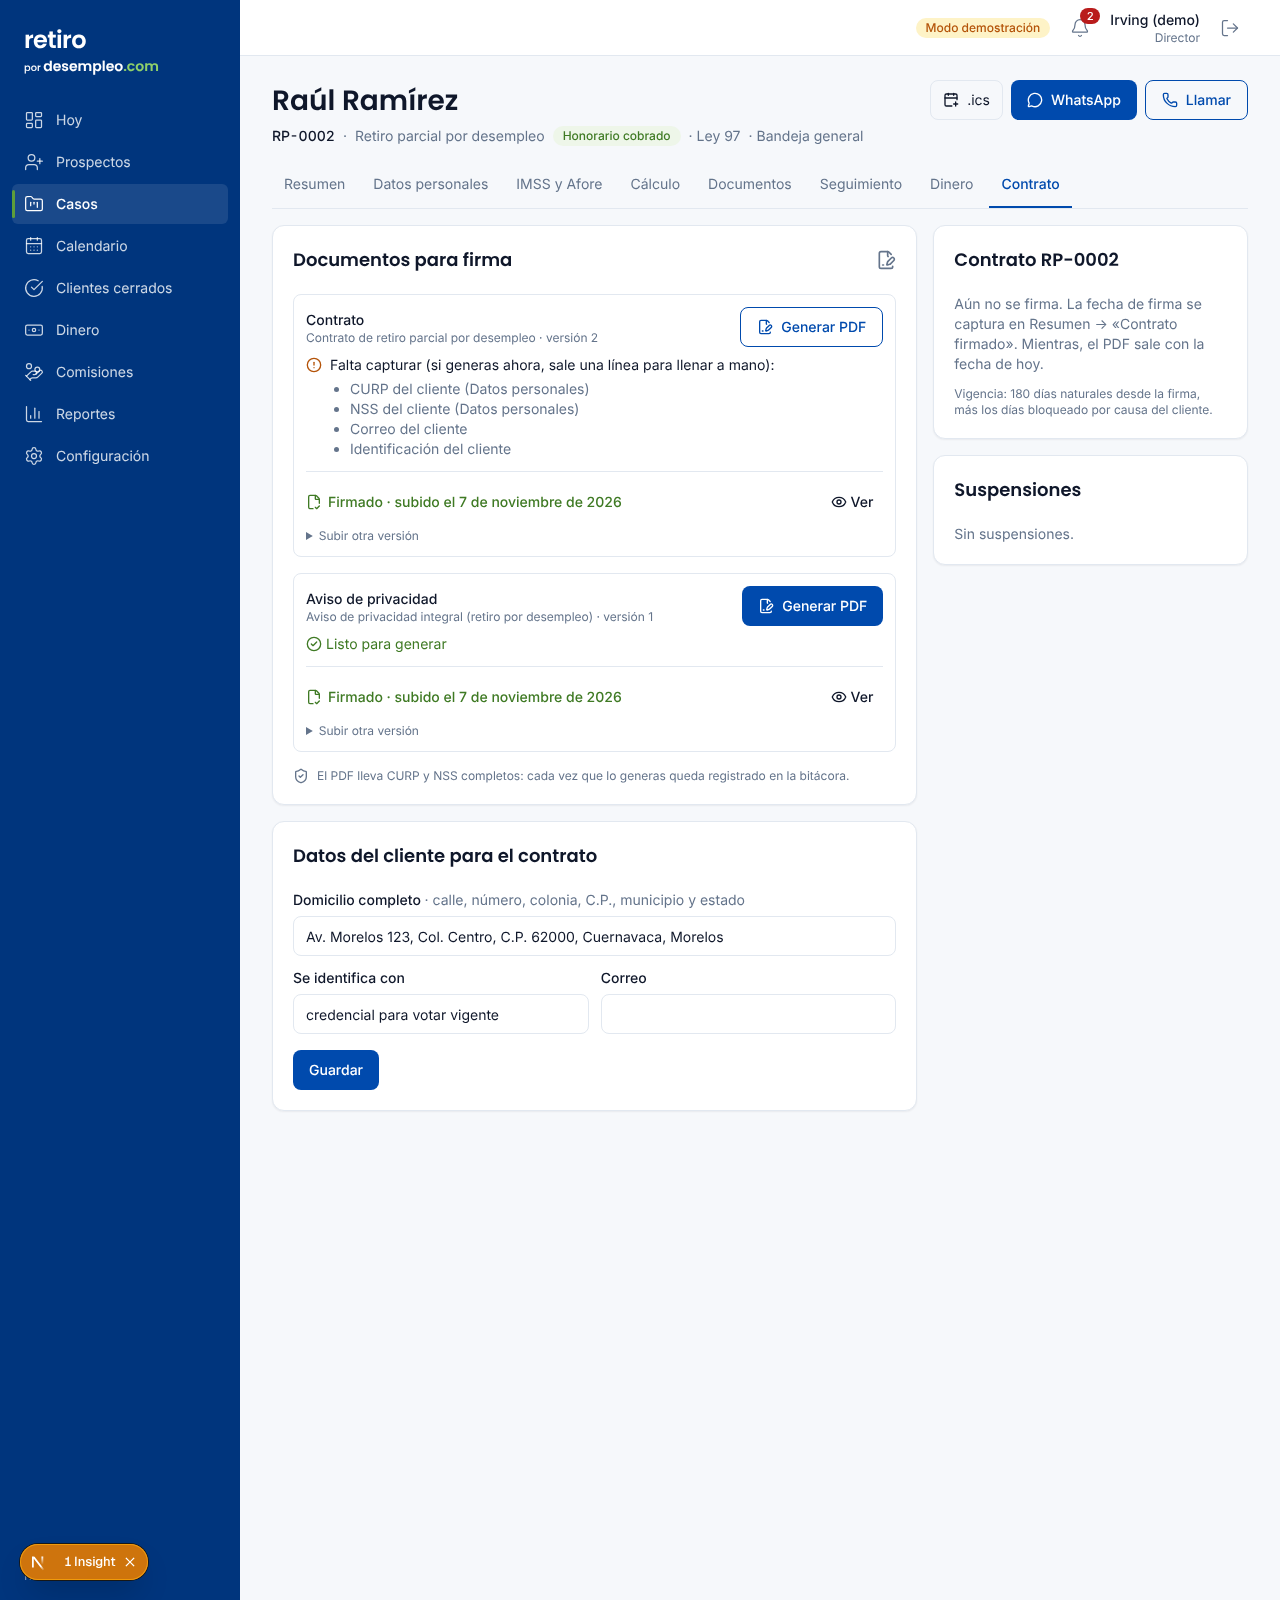
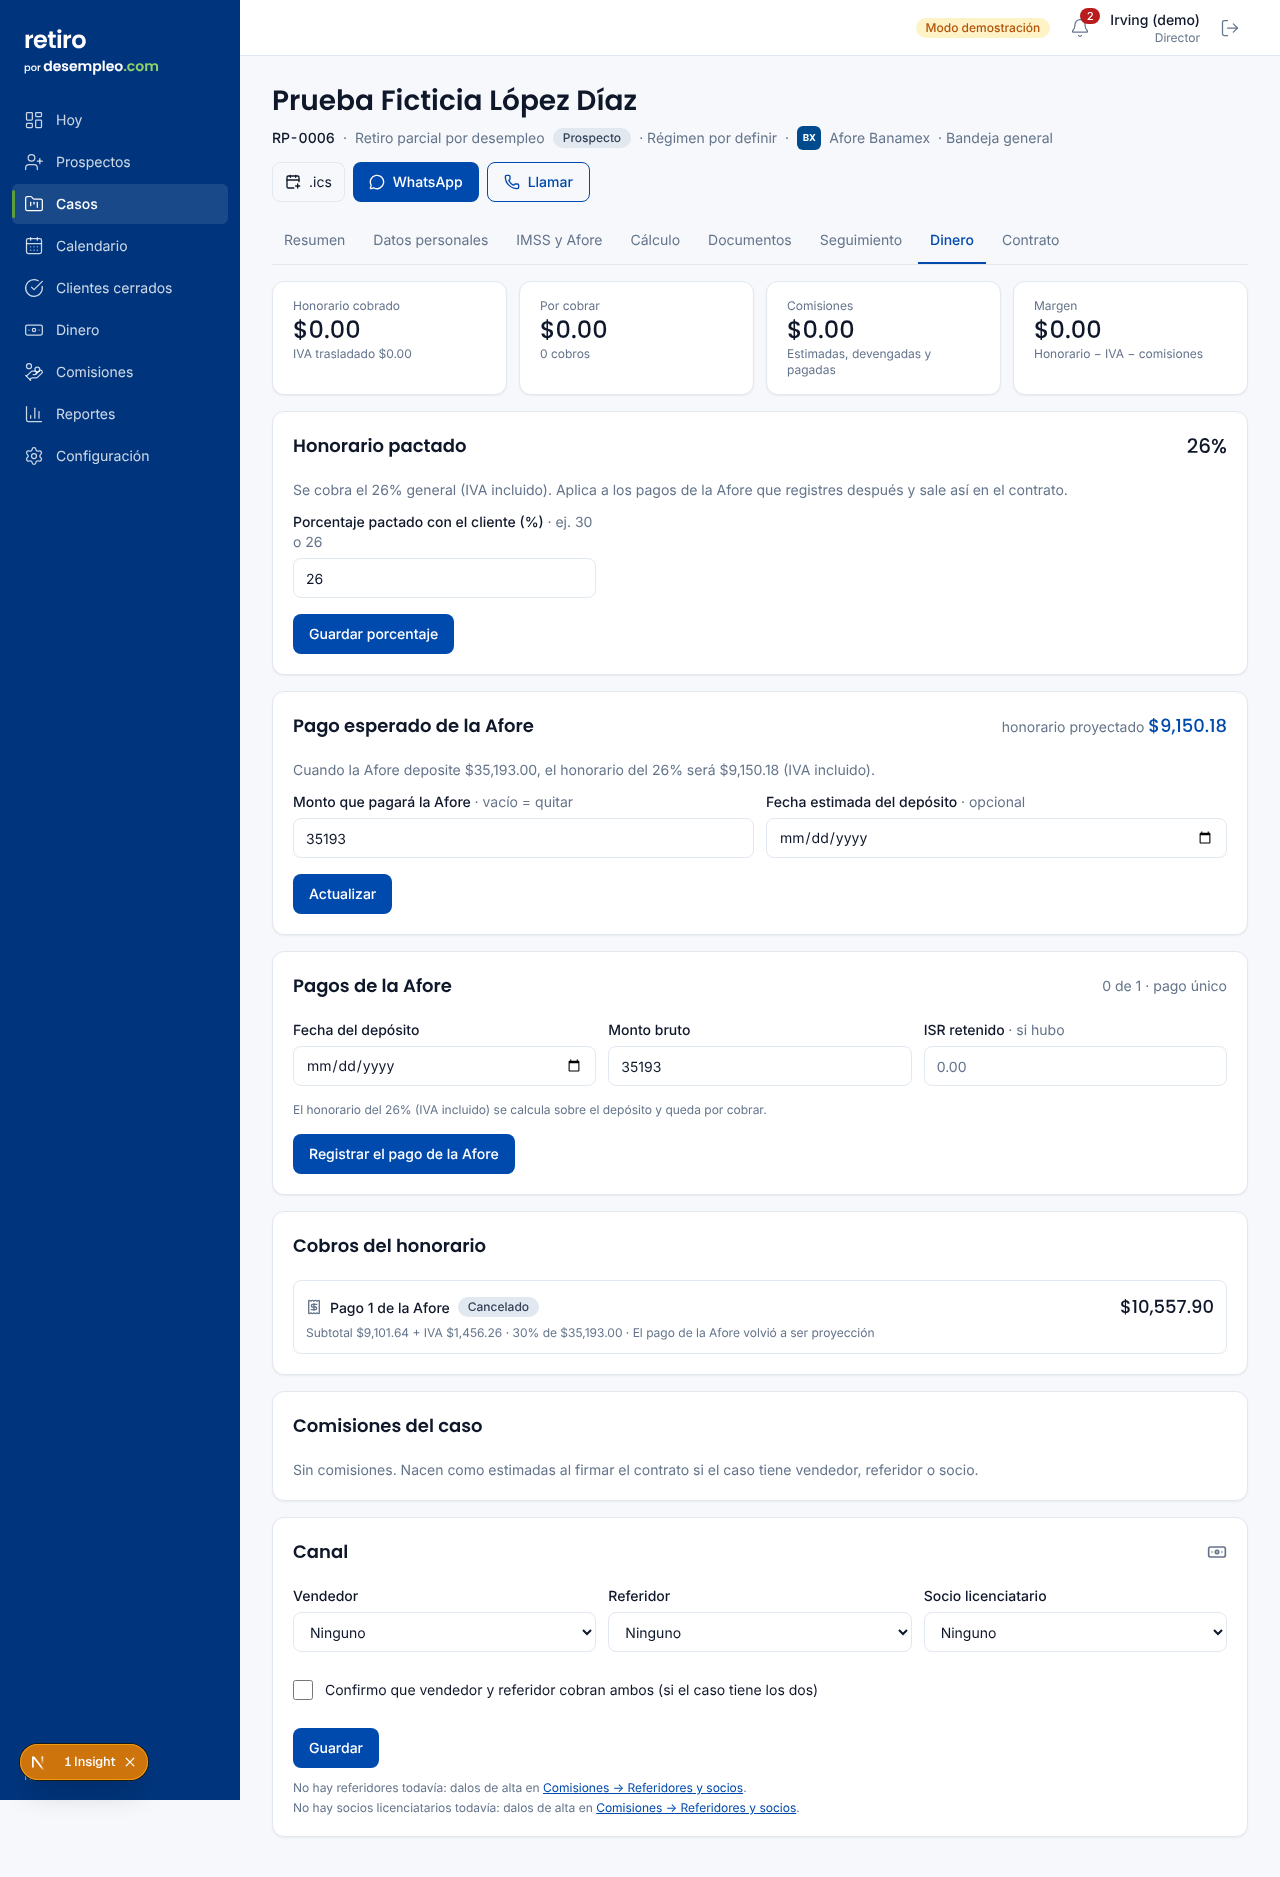
Pagos de la Afore: cambiar fecha, regresar a pago esperado y bloquear fechas absurdas
Claude-Session: https://claude.ai/code/session_013nMRDE2zF3GuiwxZkimYuE

diff --git a/src/app/(app)/casos/[id]/acciones-dinero.ts b/src/app/(app)/casos/[id]/acciones-dinero.ts
@@ -21,7 +21,10 @@ import type { Resultado } from "./acciones";
 const dia = (iso: string) => new Date(`${iso}T00:00:00Z`);
 const fechaLarga = (iso: string) => new Intl.DateTimeFormat("es-MX", { dateStyle: "long", timeZone: "UTC" }).format(dia(iso));
 const monto = z.string().trim().transform((v) => Number(v.replace(/[,$\s]/g, ""))).pipe(z.number({ message: "Escribe un monto" }).finite().min(0, "No puede ser negativo").max(10_000_000));
-const fechaPasada = z.string().min(1, "Escribe la fecha").pipe(z.iso.date({ message: "Fecha no válida" })).refine((v) => v <= hoyCDMX(), "No puede ser futura");
+// Fechas reales de dinero: ni futuras ni absurdas (un «01/01/0001» puesto para salir del paso no pasa).
+const FECHA_MINIMA = "2000-01-01";
+const fechaPasada = z.string().min(1, "Escribe la fecha").pipe(z.iso.date({ message: "Fecha no válida" }))
+  .refine((v) => v <= hoyCDMX(), "No puede ser futura").refine((v) => v >= FECHA_MINIMA, "Revisa el año: la fecha no es válida");
 const METODOS = ["transferencia", "efectivo", "tarjeta"] as const;
 const CONCEPTOS = ["pago_inicial", "recuperado", "primera_mensualidad", "honorario"] as const;
 const datosDe = (form: FormData) => Object.fromEntries([...form.entries()].filter(([, v]) => typeof v === "string")) as Record<string, string>;
@@ -334,4 +337,55 @@ export async function verComprobante(casoId: string, cobroId: string): Promise<{
   } catch {
     return { error: "No se pudo abrir el comprobante." };
   }
+}
+
+// ───────────── Corregir un pago de la Afore ─────────────
+
+/** El Director corrige solo la fecha del depósito (el monto y el honorario no cambian). */
+export async function cambiarFechaPagoAfore(casoId: string, pagoId: string, _p: Resultado, form: FormData): Promise<Resultado> {
+  const { claims, ip, usuario } = await obtenerSesion();
+  if (usuario.rol !== "director") return { error: "Solo el Director corrige pagos registrados." };
+  const r = z.object({ fecha_deposito: fechaPasada }).safeParse(datosDe(form));
+  if (!r.success) return { errores: errores(r.error) };
+  const res = await conUsuario(claims, async (tx): Promise<Resultado> => {
+    const pago = await tx.pagoAfore.findFirst({ where: { id: pagoId, caso_id: casoId, archivado_at: null }, select: { numero: true, fecha_deposito: true } });
+    if (!pago) return { error: "No encontramos el pago." };
+    await tx.pagoAfore.update({ where: { id: pagoId }, data: { fecha_deposito: dia(r.data.fecha_deposito) }, select: { id: true } });
+    await tx.evento.create({ data: { caso_id: casoId, tipo: "pago", usuario_id: usuario.id,
+      texto: `Fecha del depósito de la Afore corregida: ${fechaLarga(r.data.fecha_deposito)} (antes ${pago.fecha_deposito.toISOString().slice(0, 10)}).` } });
+    return { ok: true };
+  }, ip);
+  if (res.ok) await despues(casoId);
+  return res;
+}
+
+/**
+ * La Afore todavía no deposita: el pago vuelve a ser «pago esperado» (proyección), su cobro pendiente se cancela
+ * y el caso regresa a la etapa que tenía antes de que el pago lo moviera. Solo si el honorario no se cobró.
+ */
+export async function regresarAPagoEsperado(casoId: string, pagoId: string): Promise<Resultado> {
+  const { claims, ip, usuario } = await obtenerSesion();
+  if (usuario.rol !== "director") return { error: "Solo el Director corrige pagos registrados." };
+  const res = await conUsuario(claims, async (tx): Promise<Resultado> => {
+    const pago = await tx.pagoAfore.findFirst({ where: { id: pagoId, caso_id: casoId, archivado_at: null }, include: { cobros: { where: { archivado_at: null } } } });
+    if (!pago) return { error: "No encontramos el pago." };
+    if (pago.cobros.some((c) => c.estado === "cobrado")) return { error: "Su honorario ya se cobró: no puede volver a ser proyección." };
+    const otros = await tx.pagoAfore.count({ where: { caso_id: casoId, archivado_at: null, id: { not: pagoId } } });
+    await tx.cobro.updateMany({ where: { pago_afore_id: pagoId, estado: "por_cobrar" }, data: { estado: "cancelado", motivo_cancelacion: "El pago de la Afore volvió a ser proyección" } });
+    await tx.pagoAfore.update({ where: { id: pagoId }, data: { archivado_at: new Date() }, select: { id: true } });
+    const caso = await tx.caso.findUnique({ where: { id: casoId }, select: { etapa: true } });
+    await tx.caso.update({ where: { id: casoId }, select: { id: true }, data: { monto_afore_esperado: pago.monto_bruto, fecha_afore_estimada: null } });
+    // Si ya no queda pago y el caso avanzó solo por este, regresa a la etapa anterior.
+    if (otros === 0 && caso?.etapa === "PAGADO") {
+      const salto = await tx.historialEtapa.findFirst({ where: { caso_id: casoId, etapa_nueva: "PAGADO" }, orderBy: { fecha: "desc" }, select: { etapa_antes: true } });
+      const antes = salto?.etapa_antes ?? "PROSPECTO";
+      await tx.caso.update({ where: { id: casoId }, data: { etapa: antes, etapa_desde: new Date() }, select: { id: true } });
+      await tx.historialEtapa.create({ data: { caso_id: casoId, etapa_antes: "PAGADO", etapa_nueva: antes, motivo: "El pago de la Afore volvió a ser proyección", usuario_id: usuario.id } });
+    }
+    await tx.evento.create({ data: { caso_id: casoId, tipo: "pago", usuario_id: usuario.id,
+      texto: `El pago ${pago.numero} de la Afore volvió a ser pago esperado ($${Number(pago.monto_bruto).toLocaleString("es-MX", { minimumFractionDigits: 2 })}); falta la fecha del depósito.` } });
+    return { ok: true };
+  }, ip);
+  if (res.ok) await despues(casoId);
+  return res;
 }

diff --git a/src/app/(app)/casos/[id]/pestanas/dinero.tsx b/src/app/(app)/casos/[id]/pestanas/dinero.tsx
@@ -11,7 +11,8 @@ import { parametrosDinero, parametrosFechas, parametrosVigentes } from "@/lib/pa
 import { fechaProximoRetiro } from "@/lib/reglas/alertas";
 import { honorariosProyectados, margenCaso, pagosAforePermitidos, pctHonorarioRetiro } from "@/lib/reglas/comisiones";
 import { hoyCDMX } from "@/lib/tiempo";
-import { archivarPagoAfore, cancelarCobro, guardarCanal, guardarHonorarioPactado, guardarPagoEsperado, marcarCobrado, registrarCobro, registrarPagoAfore } from "../acciones-dinero";
+import { BotonAccion } from "../../../configuracion/boton-accion";
+import { archivarPagoAfore, cambiarFechaPagoAfore, regresarAPagoEsperado, cancelarCobro, guardarCanal, guardarHonorarioPactado, guardarPagoEsperado, marcarCobrado, registrarCobro, registrarPagoAfore } from "../acciones-dinero";
 import { Campo, CampoTexto, Casilla, claseSelect, Seleccion } from "../campos";
 import { Comprobante } from "../comprobante";
 import { FormularioAccion } from "../formulario-accion";
@@ -135,10 +136,23 @@ export async function PestanaDinero({ caso, sesion }: { caso: CasoDetalle; sesio
                       {rol === "director" && (
                         <details className="text-left">
                           <summary className="cursor-pointer text-xs text-ink-muted">Corregir</summary>
-                          <div className="mt-2 w-64">
-                            <FormularioAccion accion={archivarPagoAfore.bind(null, caso.id, p.id)} boton="Archivar pago" etiquetas={{ motivo: "Motivo" }}>
-                              <CampoTexto id="motivo" etiqueta="Motivo" />
+                          <div className="mt-2 grid w-72 gap-4">
+                            <FormularioAccion accion={cambiarFechaPagoAfore.bind(null, caso.id, p.id)} boton="Cambiar fecha" etiquetas={{ fecha_deposito: "Fecha del depósito" }}>
+                              <CampoTexto id="fecha_deposito" etiqueta="Fecha correcta del depósito" tipo="date" min="2000-01-01" max={hoyCDMX()} valor={isoDe(p.fecha_deposito) ?? ""} />
                             </FormularioAccion>
+                            <div className="grid gap-1 border-t border-borde pt-3">
+                              <p className="text-xs text-ink-muted">¿La Afore todavía no deposita? El monto vuelve a «Pago esperado» (proyección) y el caso regresa a su etapa anterior.</p>
+                              <BotonAccion accion={regresarAPagoEsperado.bind(null, caso.id, p.id)} texto="Regresar a pago esperado"
+                                confirmar={`¿Regresar este pago a «pago esperado»? Su honorario por cobrar se cancela y vuelve a proyectarse; el caso regresa a su etapa anterior.`} />
+                            </div>
+                            <details className="border-t border-borde pt-3">
+                              <summary className="cursor-pointer text-xs text-ink-muted">Archivar el pago (registrado por error)</summary>
+                              <div className="mt-2">
+                                <FormularioAccion accion={archivarPagoAfore.bind(null, caso.id, p.id)} boton="Archivar pago" etiquetas={{ motivo: "Motivo" }}>
+                                  <CampoTexto id="motivo" etiqueta="Motivo" />
+                                </FormularioAccion>
+                              </div>
+                            </details>
                           </div>
                         </details>
                       )}
@@ -158,7 +172,7 @@ export async function PestanaDinero({ caso, sesion }: { caso: CasoDetalle; sesio
                 confirmar={d.pagos.length > 0 ? `¿Registrar la mensualidad ${d.pagos.length + 1}? Revisa que sea un depósito nuevo de la Afore, no el mismo de antes.` : undefined}
                 etiquetas={{ fecha_deposito: "Fecha del depósito", monto_bruto: "Monto bruto", isr_retenido: "ISR retenido" }}>
                 <div className="grid gap-3 sm:grid-cols-3">
-                  <CampoTexto id="fecha_deposito" etiqueta="Fecha del depósito" tipo="date" max={hoyCDMX()} />
+                  <CampoTexto id="fecha_deposito" etiqueta="Fecha del depósito" tipo="date" min="2000-01-01" max={hoyCDMX()} />
                   <CampoTexto id="monto_bruto" etiqueta="Monto bruto" inputMode="decimal" placeholder="10,000.00" valor={esperado} />
                   <CampoTexto id="isr_retenido" etiqueta="ISR retenido" ayuda="si hubo" inputMode="decimal" placeholder="0.00" />
                 </div>

diff --git a/docs/DECISIONES.md b/docs/DECISIONES.md
@@ -243,3 +243,11 @@ Los documentos de clientes no se guardan en el repositorio: se convirtieron en p
 - «Eliminar» en la línea de tiempo archiva la nota (`eventos.archivado_at/archivado_por`): deja de verse y de contar
   como último contacto; no se borra. Solo notas escritas por personas (nota, llamada, WhatsApp, correo; CHECK
   `eventos_archivar_solo_notas`) y solo su autor o el Director. Los registros del sistema no se eliminan. Migración 2300.
+
+## 7-nov-2026 · Corregir pagos de la Afore
+
+- Las fechas de dinero (depósito, cobro) no aceptan años antes de 2000 ni futuras: RP-0002 tenía un depósito con fecha
+  0001-01-01 capturado para salir del paso, que lo movió a «Pagado por Afore».
+- En «Corregir» de cada pago (solo Director): **Cambiar fecha** (monto y honorario igual), **Regresar a pago esperado**
+  (archiva el pago, cancela su cobro pendiente, deja el monto como proyección y regresa el caso a la etapa previa al
+  salto automático; no si el honorario ya se cobró) y **Archivar** (registro por error).
